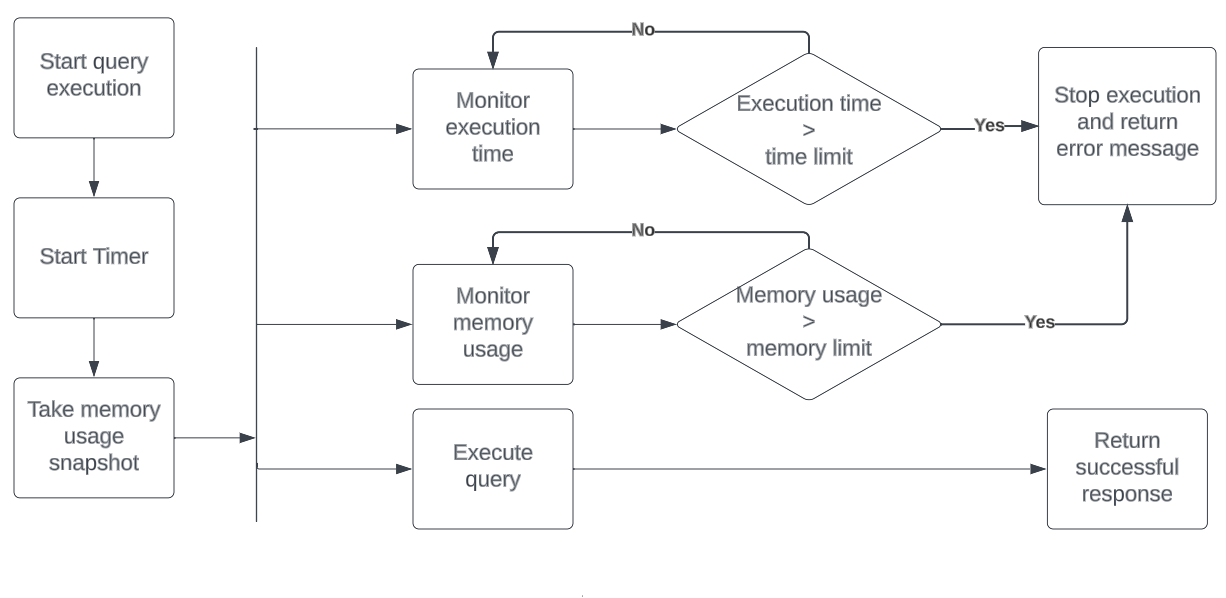
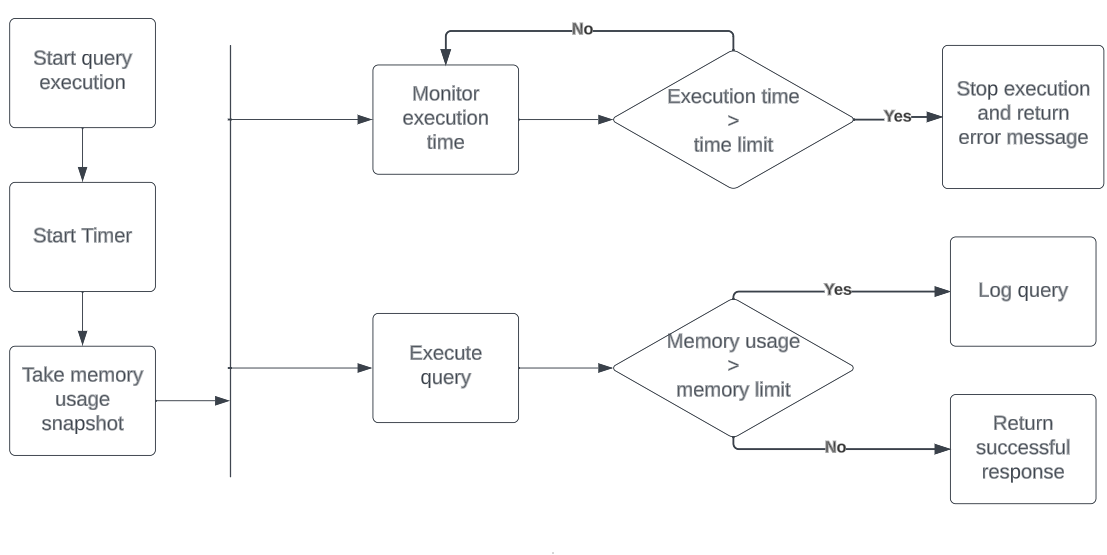
Small changes

diff --git a/Validation/DynamicCostAnalysisMiddleware.cs b/Validation/DynamicCostAnalysisMiddleware.cs
@@ -52,7 +52,6 @@ namespace GraphQL_API.Validation
 							{
 								_timer.Stop();
 								_ = Task.Run(() => SaveBannedQuery(requestBody, _timer.ElapsedMilliseconds, GC.GetTotalMemory(false) - _memory, "Memory Exceeded"));
-								throw new Exception("Memory Limit Exceeded");
 							}
 						}
 						catch (OperationCanceledException) when (!context.RequestAborted.IsCancellationRequested)
@@ -65,7 +64,7 @@ namespace GraphQL_API.Validation
 					}
 				}
 			}
-			catch(Exception ex)
+			catch (Exception ex)
 			{
 				_ = Task.Run(() => SaveExecutionTelemetry(_timer!.ElapsedMilliseconds, GC.GetTotalMemory(false) - _memory, false));
 				throw;
@@ -75,8 +74,8 @@ namespace GraphQL_API.Validation
 				if (_timer!.IsRunning)
 				{
 					_timer.Stop();
-					_ = Task.Run(() => SaveExecutionTelemetry(_timer.ElapsedMilliseconds, GC.GetTotalMemory(false) - _memory, true));
 				}
+				_ = Task.Run(() => SaveExecutionTelemetry(_timer.ElapsedMilliseconds, GC.GetTotalMemory(false) - _memory, true));
 			}
 		}
 
@@ -94,11 +93,14 @@ namespace GraphQL_API.Validation
 
 		private void SaveBannedQuery(string query, long executionTime, long memoryUsage, string reason)
 		{
+			var memoryUsageMB = (decimal)memoryUsage / 1048576M;
+			var executionTimeSeconds = (decimal)executionTime / 1000M;
+
 			using (StreamWriter sw = File.AppendText("./Logs/BannedQueryLog.txt"))
 			{
 				sw.WriteLine("execution time: {0}, \t\tmemory usage: {1}, \t\tbanned reason: {2}, \t\tquery: {3}",
-				 executionTime,
-				 memoryUsage,
+				 executionTimeSeconds,
+				 memoryUsageMB,
 				 reason,
 				 query);
 				sw.WriteLine("=====================================================================================");
